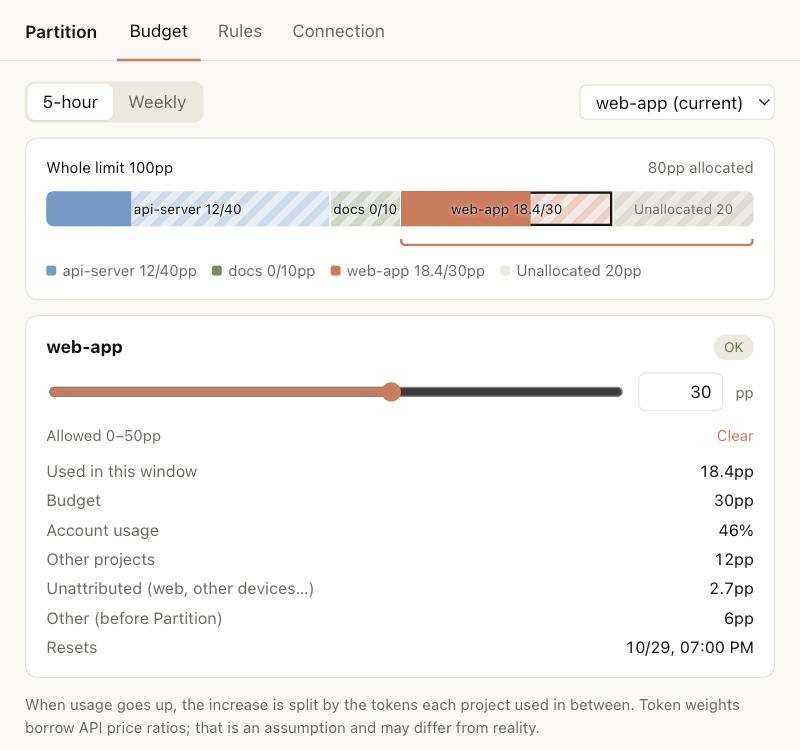
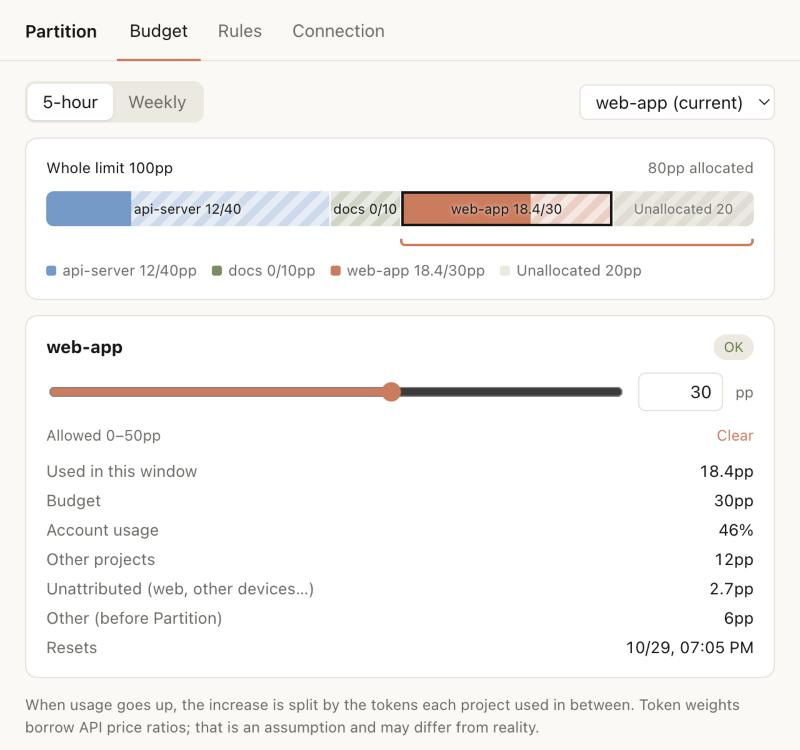
fix: draw the selected project's outline above its used fill

diff --git a/src/ui/page/style.css b/src/ui/page/style.css
@@ -101,7 +101,11 @@ input[type="number"] { width: 68px; text-align: right; }
 .seg .fill { position: absolute; left: 0; top: 0; bottom: 0; transition: width 120ms ease-out; }
 .seg span { position: relative; text-shadow: 0 0 3px var(--surface); }
 .seg + .seg { border-left: 1px solid var(--surface); }
-.seg.selected { box-shadow: inset 0 0 0 2px var(--text); }
+/* 고른 프로젝트 테두리: 쓴 만큼 채운 막대(.fill)보다 위에 그려야 가려지지 않는다 */
+.seg.selected::after {
+  content: ""; position: absolute; inset: 0; z-index: 2; pointer-events: none;
+  border: 2px solid var(--text); border-radius: inherit;
+}
 .seg.free {
   color: var(--muted);
   --c: transparent;
